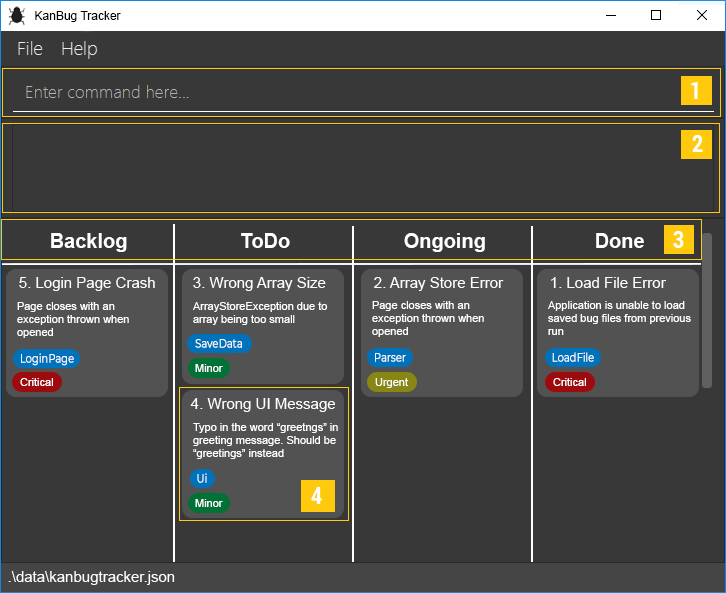
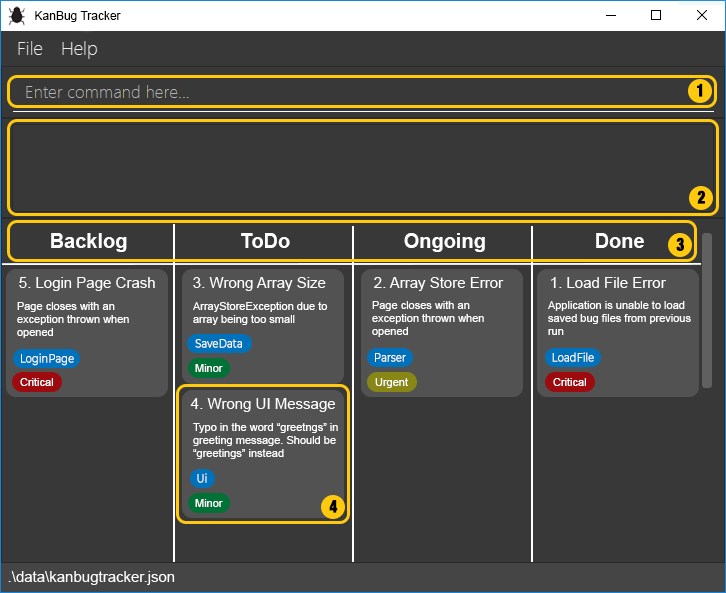
Update Ui images Update UG to show optional column prefix Minor fixes Remove getting started images

Changed region(s): [[0.0, 0.1214, 1.0, 0.4553], [0.2424, 0.6374, 0.4848, 0.9106]]

diff --git a/docs/UserGuide.md b/docs/UserGuide.md
@@ -13,7 +13,8 @@ KanBug Tracker was made to provide a lightweight, offline application for CS2103
 
 
 ## What can users expect?
-KanBug Tracker provides two different views that the user can switch between. The first is the traditional Kanban board style view which aims to allow users to get a high-level overview of the state of bugs in their project. The second view is the To-Do list view which allows users to focus only on the bugs within a particular section of the KanBug Tracker. 
+KanBug Tracker provides two different views that the user can switch between. The first is the traditional Kanban board style view which aims to allow users to get a high-level overview of the state of bugs in their project. The second view is the To-Do list view which allows users to focus only on the bugs within a particular section of the KanBug Tracker.
+
 #### Kanban View:
 
 ![Ui](images/Ui3.png)
@@ -29,7 +30,18 @@ KanBug Tracker provides two different views that the user can switch between. Th
 
 #### List View:
 
-![Ui](images/Ui2.png)
+![Ui](images/Ui4.png)
+
+1. Command Line Interface for users to enter their commands
+2. Display that the application uses to give feedback on commands to the user
+3. Scroll bar to navigate up and down the bug list
+4. Each individual bug will be displayed with the following data listed in order of display from top to bottom:
+    - Name of bug
+    - Short description of bug
+    - Note containing extra information about the bug
+    - Relevant tags
+    - Priority of bug
+
 - [Getting Started](#getting-started)
 
 - [Features](#features)
@@ -40,7 +52,7 @@ KanBug Tracker provides two different views that the user can switch between. Th
   - [Deleting a bug : **`delete`**](#deleting-a-bug--delete)
   - [Editing a bug : **`edit`**](#editing-a-bug--edit)
   - [Editing a tag of a bug: **`editTag`**](#editing-a-tag-of-a-bug--edittag)
-- [Adding a tag to a bug : **`addTag`**](#adding-a-tag-to-a-bug--addtag)
+  - [Adding a tag to a bug : **`addTag`**](#adding-a-tag-to-a-bug--addtag)
   - [Moving a bug : **`move`**](#moving-a-bug--move)
   - [Exiting the program :  **`exit`**](#exiting-the-program--exit)
   - [Saving the data](#saving-the-data)
@@ -92,17 +104,17 @@ Format: `list`
 
 Adds a bug to the list
 
-Format: `add n/NAME d/DESCRIPTION [s/STATE] [t/TAG]`
+Format: `add n/NAME d/DESCRIPTION [s/STATE] [note/NOTE] [t/TAG]`
 
 - Add a bug with the specified name, description and state to the bottom of the list.
-- The state field is optional, all other fields are needed.
+- The state, note and tag fields are optional, all other fields are needed.
 - If state is not specified, a default state of backlog will be assigned.
 
 Examples:
 
-- `add n/Print bug d/prints the wrong message s/todo t/Ui`, adds a bug with name *Print Bug*, Description of *prints the wrong message*, state of *To do* and a tag of *Ui*.
-- `add n/Move bug d/moves bug to wrong column s/backlog`, adds a bug with name *Move bug*, Description of *moves bug to wrong column* and state of *Backlog*.
-- `add n/Move bug d/UI`, adds a bug with name *move bug*, Description of *UI* and state of *Backlog*.
+- `add n/Print bug d/Prints the wrong message s/todo t/Ui`, adds a bug with name *Print Bug*, Description of *Prints the wrong message*, state of *To do* and a tag of *Ui*.
+- `add n/Move bug d/Moves bug to wrong column s/backlog note/This bug is likely caused by issues in multiple classes`, adds a bug with name *Move bug*, Description of *Moves bug to wrong column*, state of *Backlog* and a note of *This bug is likely caused by issues in multiple classes*.
+- `add n/Move bug d/Moves the wrong bug when run`, adds a bug with name *Move bug*, Description of *Moves the wrong bug when run* and default state of *Backlog*.
 
 ### Deleting a bug : `delete`
 
@@ -120,20 +132,22 @@ Example:
 
 Edits an existing bug in the tracker
 
-Format: `edit INDEX [n/NEW_NAME] [d/NEW_DESCRIPTION] [t/NEW_TAG]`
+Format: `edit INDEX [c/COLUMN] [n/NEW_NAME] [d/NEW_DESCRIPTION] [note/NEW_NOTE] [t/NEW_TAG]`
 
-- Edits the bug at the specified `INDEX`. The index refers to the index number shown in the displayed list of bugs.
+- The command to be used depends on which view the user is in. The user can either be in **Kanban view** or **List view**.
+  - **Kanban view**: User must supply `COLUMN`. The bugs are filtered such that only bugs that have a `STATE` matching the `COLUMN` selected are considered. The bug at the specified `INDEX` of this filtered list is selected to be edited.
+  - **List view**: `COLUMN` should **not** be supplied. The bug at the specified `INDEX` is edited. The index refers to the index number shown in the displayed list of bugs.
+
+- Edits the specified bug.
 - At least one of the optional fields must be provided.
 - Existing values will be updated to the input values.
 - **Multiple tags** can be added or edited.
 
 Examples:
 
-- `edit 1 n/Wrong list numbers when displaying list d/List column printed as all 1's`, edits the name and description of the 1st bug to be "Wrong list numbers when displaying list" and "List column printed as all 1's" respectively.
-- `edit 2 d/When listing items, duplicates are printed`, edits the description of the 2nd bug to be "When listing items, duplicated are printed".
+- `edit 1 n/Wrong list numbers when displaying list d/List column printed as all 1's`, edits the name and description of the 1st bug to be *Wrong list numbers when displaying list* and "List column printed as all 1's" respectively.
+- `edit 2 d/When listing items, duplicates are printed note/Tried a fix using iterator, did not work`, edits the description of the 2nd bug to be *When listing items, duplicated are printed*
 - `edit 3 t/Logger t/Logging`, edits/adds the two tags provided *Logger* and *Logging*.
-
-
 
 ### Editing a tag of a bug : `editTag`
 
@@ -176,9 +190,13 @@ Examples:
 
 Moves an existing bug in the tracker from one state to another
 
-Format: `move INDEX s/STATE`
+Format: `move INDEX [c/COLUMN] s/STATE`
 
-- Moves the bug at the specified `INDEX`. The index refers to the index number shown in the displayed list of bugs.
+- The command to be used depends on which view the user is in. The user can either be in **Kanban view** or **List view**.
+  - **Kanban view**: User must supply `COLUMN`. The bugs are filtered such that only bugs that have a `STATE` matching the `COLUMN` selected are considered. The bug at the specified `INDEX` of this filtered list is selected to be edited.
+  - **List view**: `COLUMN` should **not** be supplied. The bug at the specified `INDEX` is edited. The index refers to the index number shown in the displayed list of bugs.
+
+- Moves the specified bug.
 - The state field is **mandatory** and must be provided.
 - State can either be **backlog, todo, ongoing** or **done**.
 - Existing state will be updated to the new state.
@@ -208,12 +226,12 @@ Data is saved into the hard disk every time a change is made.
 | :---------: | :-------------------------------------------------------: |
 |  **help**   |                          `help`                           |
 |  **list**   |                          `list`                           |
-|   **add**   |       `add n/NAME d/DESCRIPTION [s/STATE] [t/TAG]`        |
+|   **add**   |       `add n/NAME d/DESCRIPTION [s/STATE] [note/NOTE] [t/TAG]`        |
 | **delete**  |                      `delete INDEX`                       |
-|  **edit**   | `edit INDEX [n/NEW_NAME] [d/NEW_DESCRIPTION] [t/NEW_TAG]` |
+|  **edit**   | `edit INDEX [c/COLUMN] [n/NEW_NAME] [d/NEW_DESCRIPTION] [note/NOTE] [t/NEW_TAG]` |
 | **editTag** |     `editTag INDEX [c/COLUMN] ot/OLD_TAG nt/NEW_TAG`      |
 | **addTag**  |           `addTag INDEX [c/COLUMN] nt/NEW_TAG`            |
-|  **move**   |                   `move INDEX s/STATE`                    |
+|  **move**   |                   `move INDEX [c/COLUMN] s/STATE`                    |
 |  **exit**   |                          `exit`                           |
 
 Team Name: AY2021S1-CS2103T-W17-1
